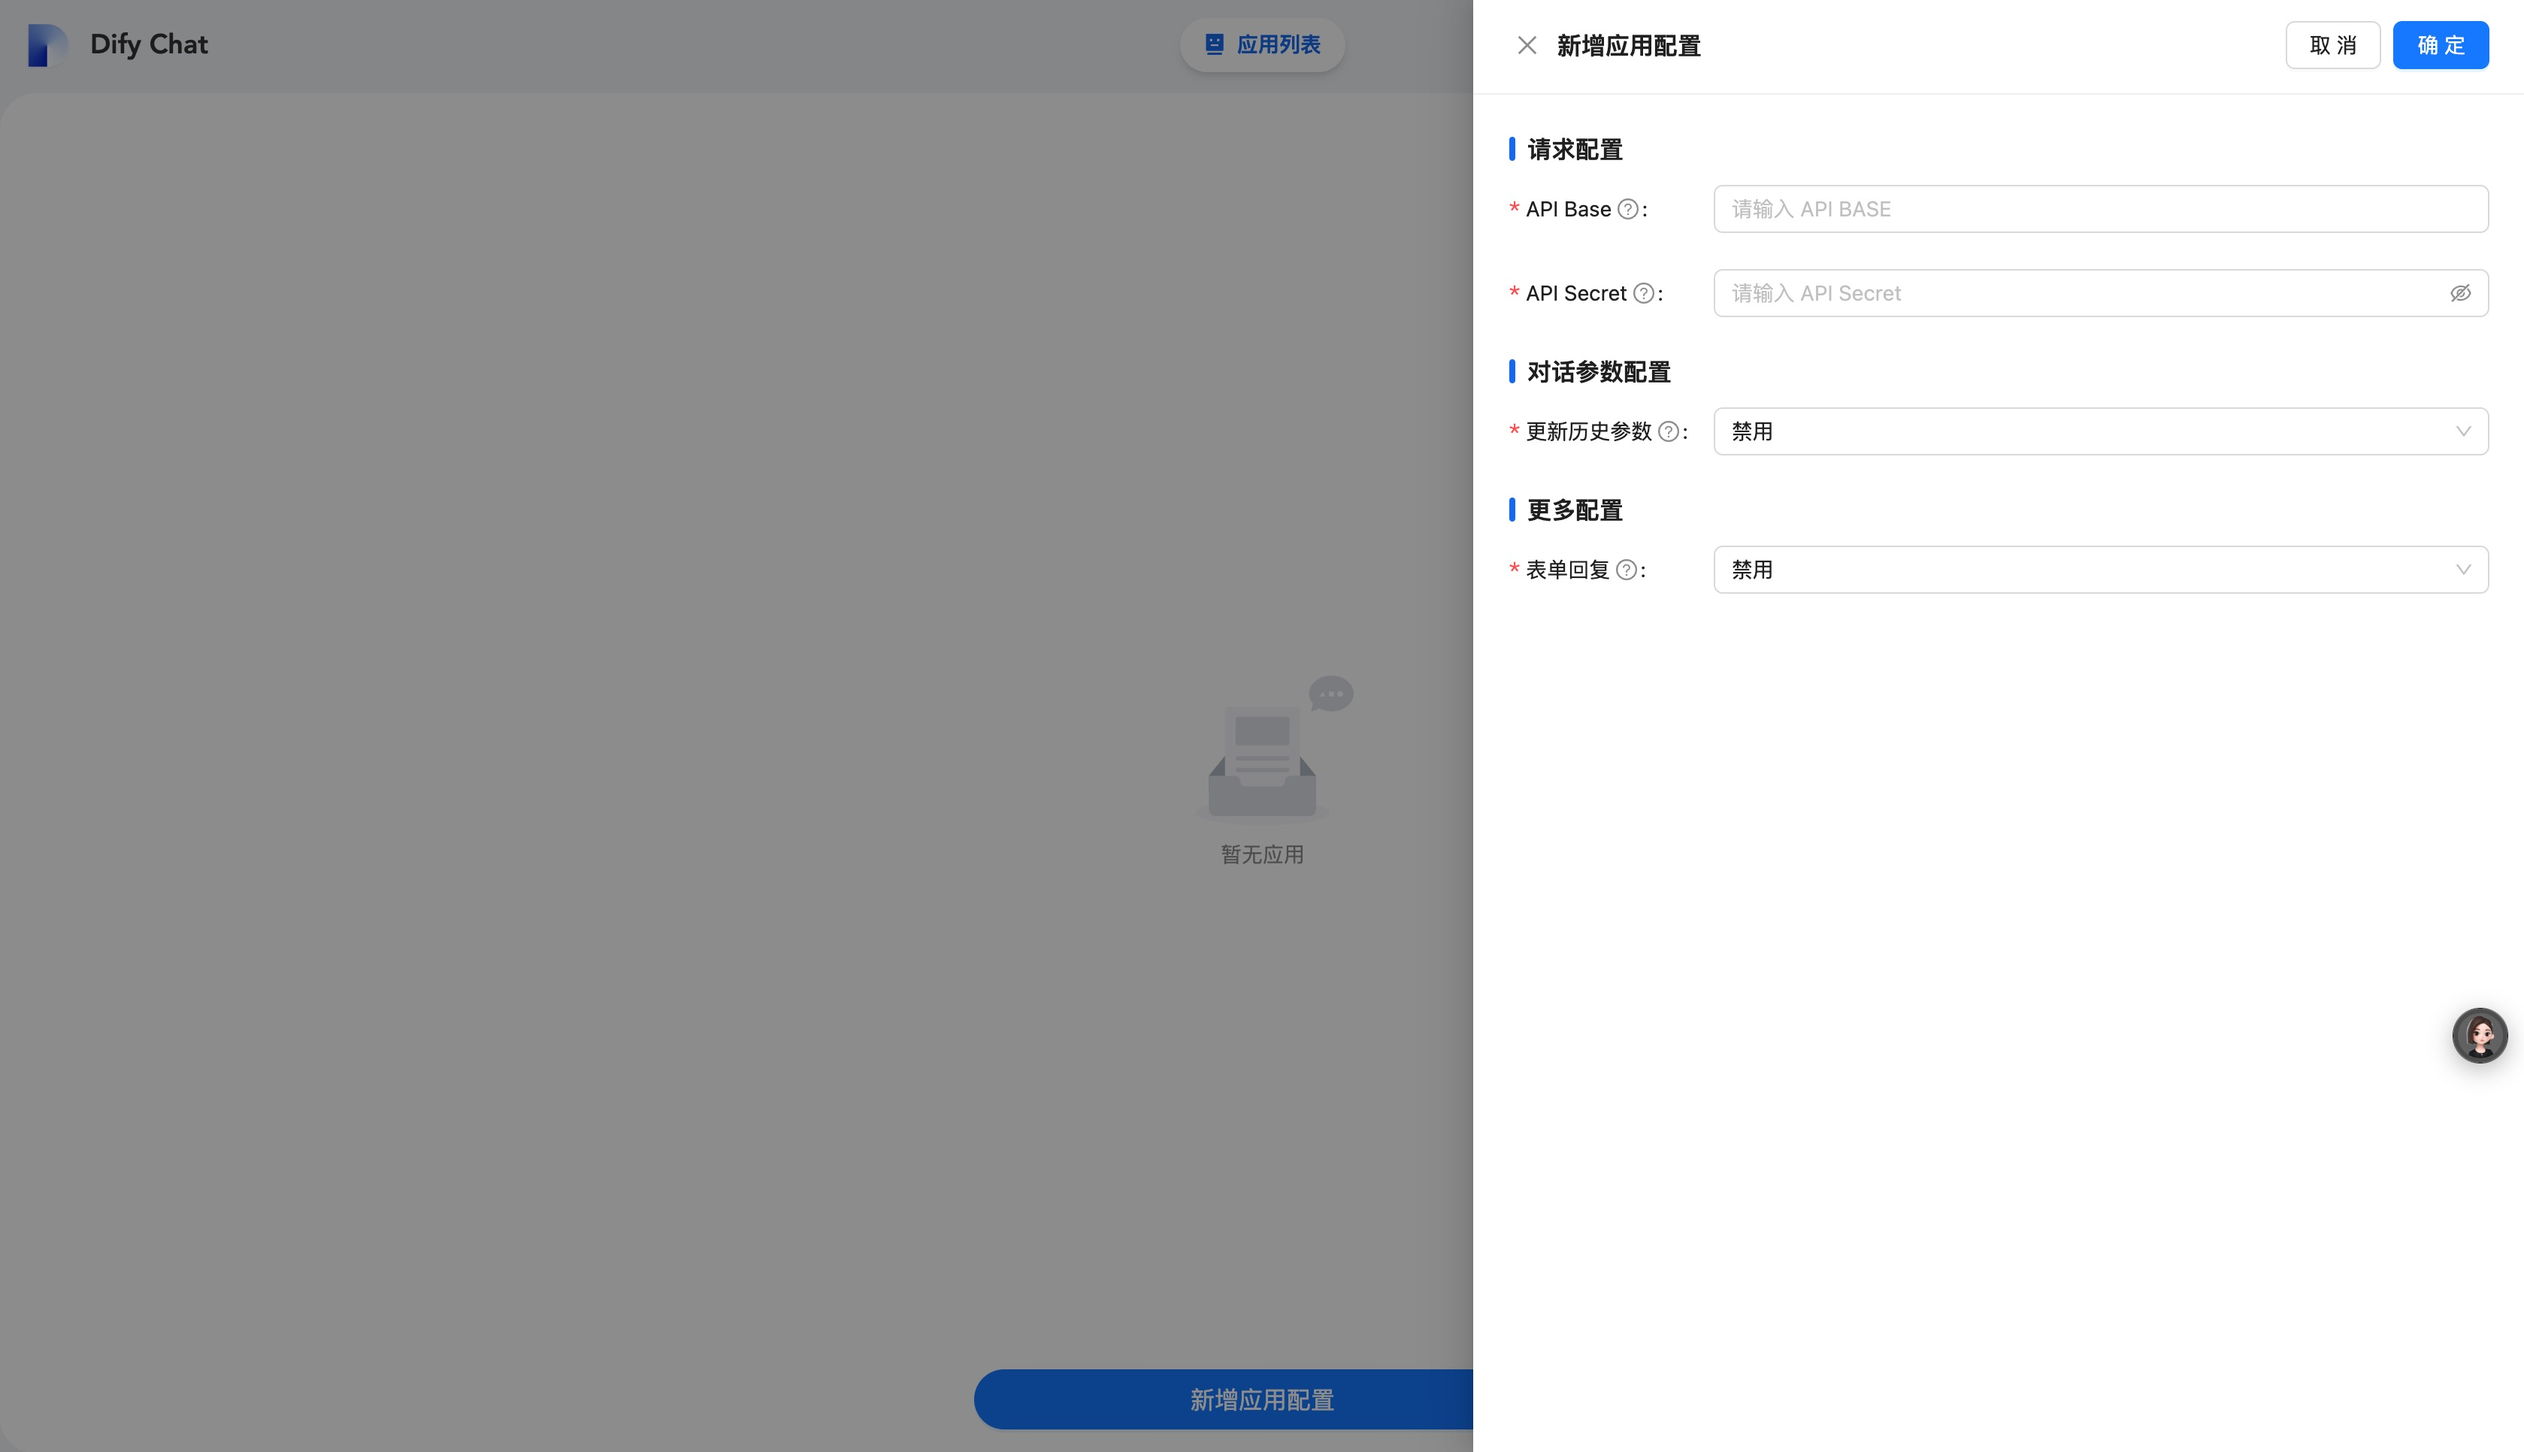
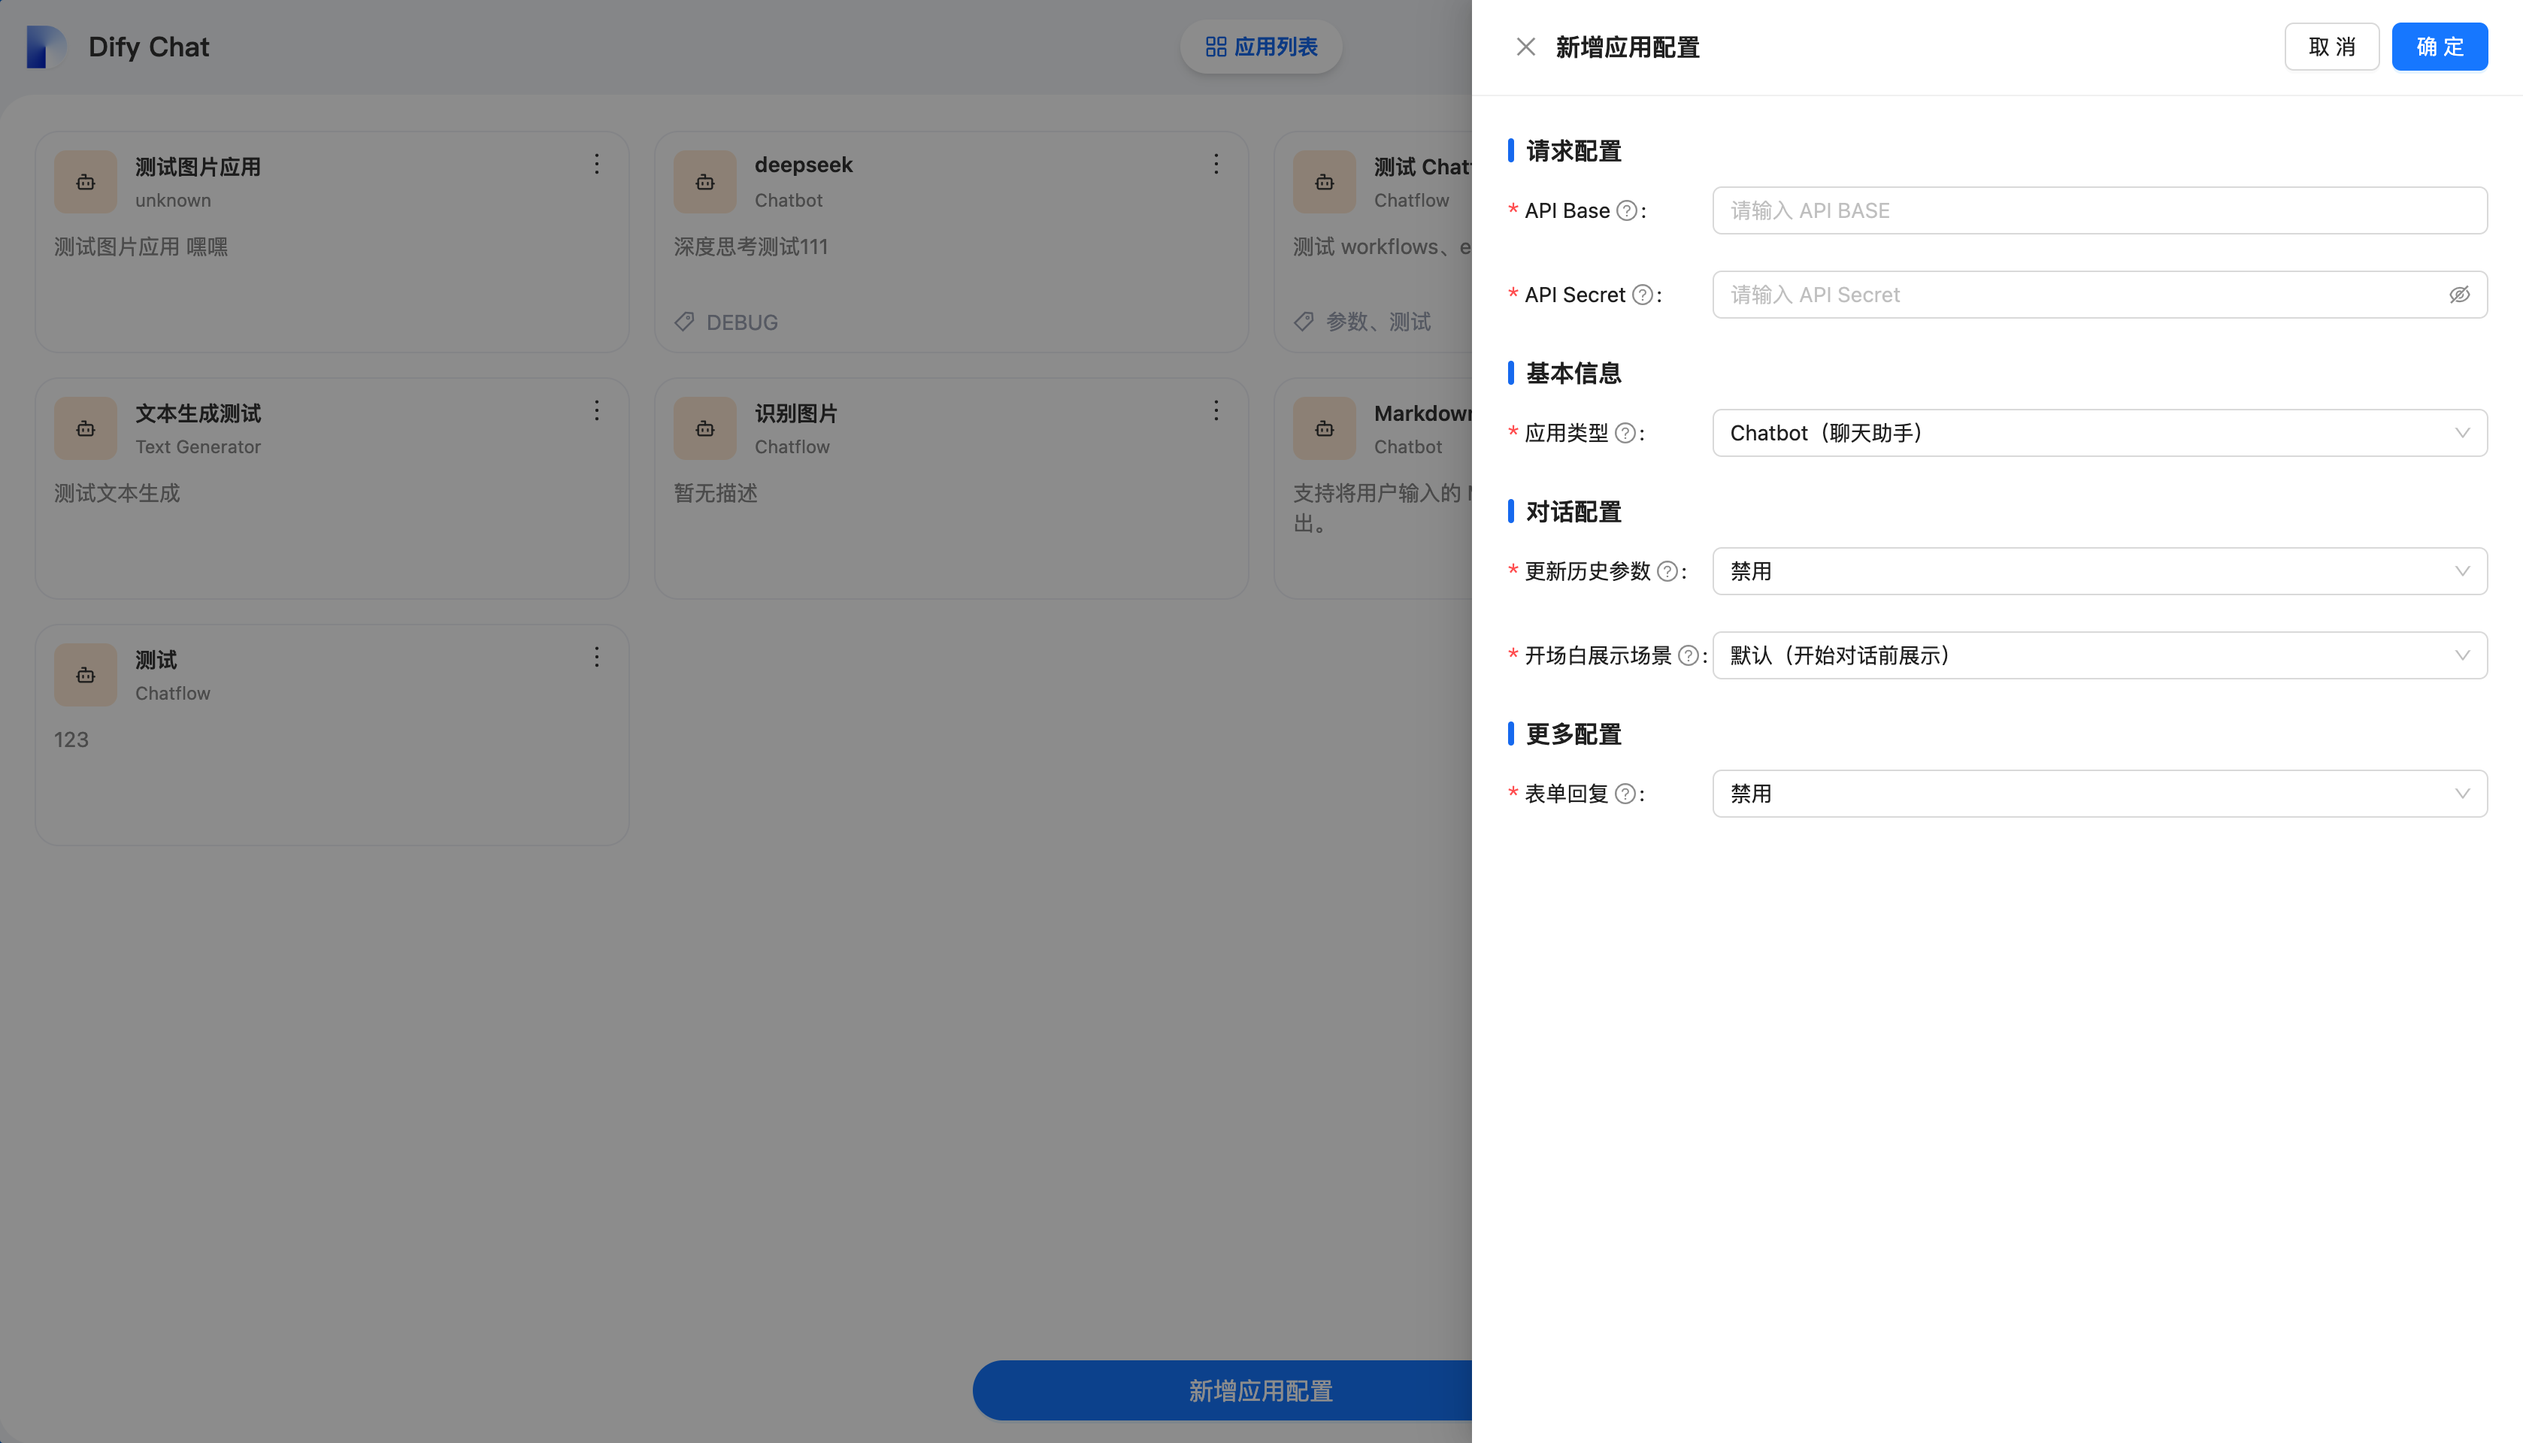
docs(README): 新增应用类型配置说明

diff --git a/README.md b/README.md
@@ -162,6 +162,8 @@ Chatflow 工作流：
 只需简单修改 `src/App.tsx` 中 `DifyChatProvider` 的属性即可：
 
 ```tsx
+import { AppModeEnums } from '@dify-chat/core'
+
 export default function App() {
   return (
     <DifyChatProvider
@@ -175,6 +177,10 @@ export default function App() {
           requestConfig: {
             apiBase: '上一步中获取到的 API Base',
             apiKey: '上一步中获取到的 API Key',
+          },
+          // 如果你使用的是聊天类型应用 (Chatbot/Chatflow/Agent), 则不需要定义 info.mode
+          info: {
+            mode: AppModeEnums.WORKFLOW,
           },
         },
       }}
@@ -199,9 +205,11 @@ export default function App() {
 
 ![添加应用配置抽屉](./docs/guide_mtapp_setting_add.png)
 
-依次填入在上一步中获取的 API Base 和 API Secret：
+依次填入应用信息：
 
-> 注：其他配置非必需，保持默认值即可。
+- 请求配置：在上一步中获取的 API Base 和 API Secret
+- 应用类型：默认是聊天助手，如果是其他类型应用，需要切换到对应的类型
+- 其他配置非必需，先保持默认值，后续需要再编辑即可
 
 ![添加应用配置抽屉-已填入信息](./docs/guide_mtapp_setting_add_fulfilled.png)
 
